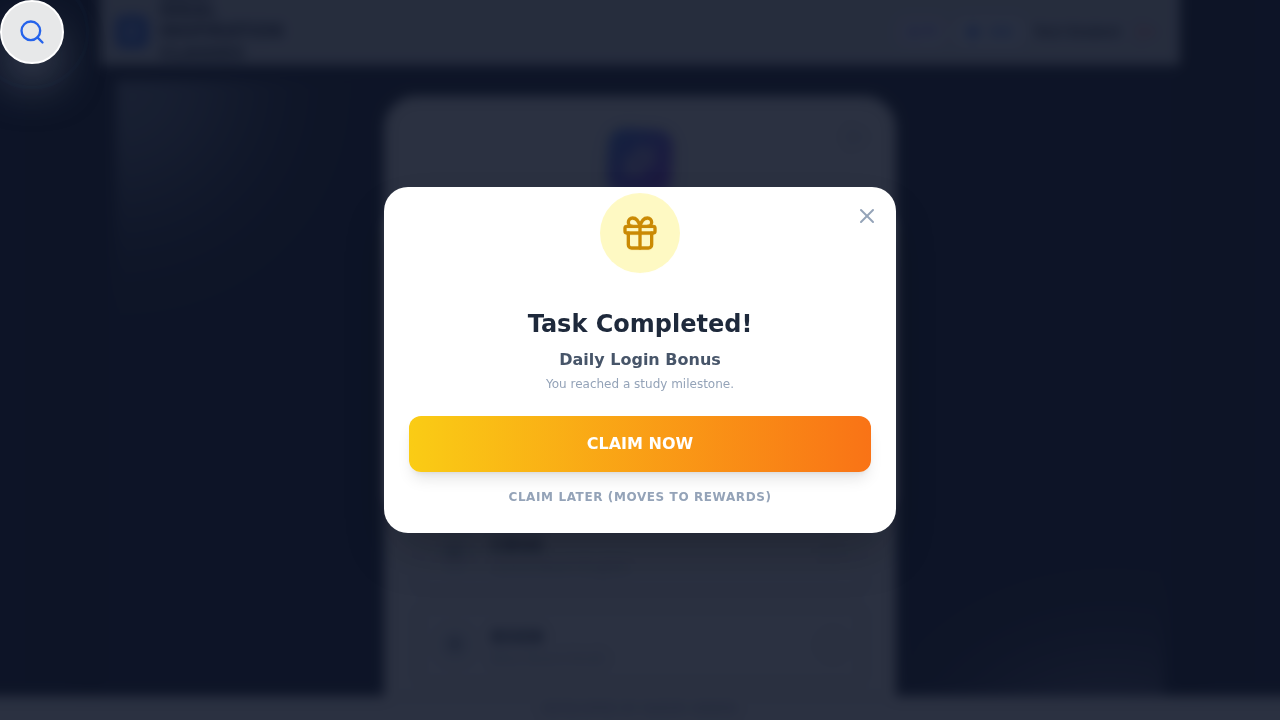
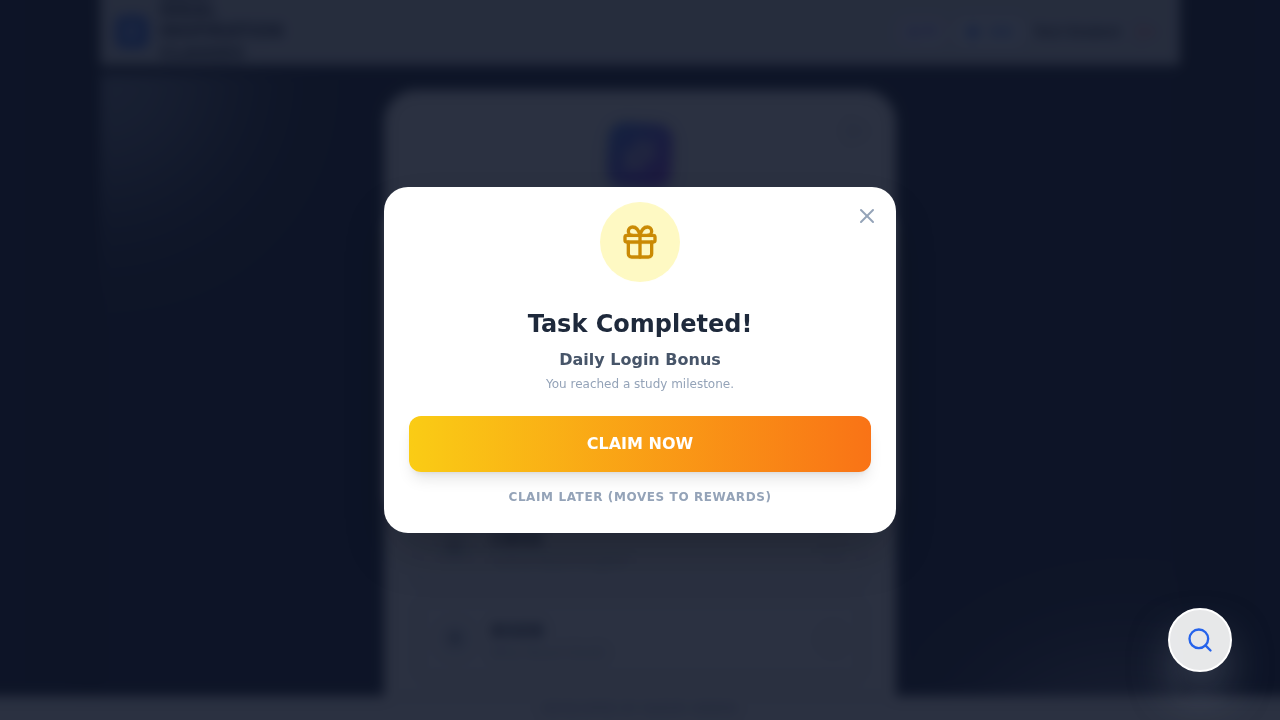
fix: remove watermark, fix undefined performanceTag replace in history, safeguard RevisionHub

Changed region(s): [[0.9062, 0.825, 0.9688, 0.9472], [0.4688, 0.275, 0.5312, 0.3972], [0.0, 0.0, 0.0625, 0.0917]]

diff --git a/App.tsx b/App.tsx
@@ -2218,38 +2218,6 @@ const App: React.FC = () => {
       {/* BOTTOM SAFE AREA BACKGROUND */}
       <div className="fixed bottom-0 left-0 right-0 h-[env(safe-area-inset-bottom,32px)] bg-slate-900 z-[100]"></div>
 
-      {/* WATERMARK LAYER */}
-      {state.settings.isWatermarkEnabled !== false && (
-      <div className="fixed inset-0 z-[-1] pointer-events-none overflow-hidden select-none">
-          {state.settings.appLogo && (
-              <img
-                  src={state.settings.appLogo}
-                  alt=""
-                  style={{
-                      width: `${state.settings.watermarkSize || 150}px`,
-                      height: 'auto',
-                      opacity: state.settings.watermarkOpacity || 0.05,
-                      position: 'absolute',
-                      top: state.settings.watermarkPosition?.top || '50%',
-                      left: state.settings.watermarkPosition?.left || '50%',
-                      transform: `translate(-50%, -50%) rotate(${state.settings.watermarkAngle || -10}deg)`,
-                      filter: 'grayscale(100%)'
-                  }}
-              />
-          )}
-
-          {(state.user && state.settings.showUserWatermark !== false) && (
-              <div className="absolute inset-0 flex items-center justify-center pointer-events-none">
-                  <div
-                    className="text-4xl font-black -rotate-45 whitespace-nowrap pointer-events-none"
-                    style={{ color: state.settings.footerColor ? `${state.settings.footerColor}10` : 'rgba(15, 23, 42, 0.05)' }}
-                  >
-                      {state.user.name} • {state.user.displayId || state.user.id}
-                  </div>
-              </div>
-          )}
-      </div>
-      )}
       
       {/* GLOBAL LIVE DASHBOARD 1 (TOP) */}
         {state.settings.bannerConfig?.top?.enabled && showTopBanner && state.view === 'ADMIN_DASHBOARD' && (

diff --git a/components/AnalyticsPage.tsx b/components/AnalyticsPage.tsx
@@ -216,7 +216,7 @@ export const AnalyticsPage: React.FC<Props> = ({ user, onBack, settings, onNavig
                                     <p className="text-xs text-slate-500">{item.subjectName} • {new Date(item.date).toLocaleDateString()}</p>
                                 </div>
                                 <div className={`px-2 py-1 rounded text-[10px] font-black border ${getTagColor(item.performanceTag)}`}>
-                                    {item.performanceTag.replace('_', ' ')}
+                                    {(item.performanceTag || '').replace('_', ' ')}
                                 </div>
                             </div>
                             

diff --git a/components/MarksheetCard.tsx b/components/MarksheetCard.tsx
@@ -905,7 +905,7 @@ export const MarksheetCard: React.FC<Props> = ({ result, user, settings, onClose
               <div className="bg-white border border-slate-200 rounded-2xl p-4 text-center shadow-sm flex flex-col items-center justify-center">
                   <p className="text-[10px] font-bold text-slate-400 uppercase tracking-widest mb-1">Grade</p>
                   <span className={`px-3 py-1 rounded-full text-xs font-black ${tagColor}`}>
-                      {result.performanceTag.replace('_', ' ')}
+                      {(result.performanceTag || '').replace('_', ' ')}
                   </span>
               </div>
           </div>

diff --git a/playwright-verify2.js b/playwright-verify2.js
@@ -26,7 +26,7 @@ import { chromium } from 'playwright';
   });
 
   try {
-    await page.goto('http://localhost:5004');
+    await page.goto('http://localhost:5000');
     await page.waitForTimeout(3000);
 
     // Click on Revision tab
@@ -40,7 +40,7 @@ import { chromium } from 'playwright';
 
     await page.screenshot({ path: 'revision_hub_test.png' });
   } catch (e) {
-    console.log("Could not load localhost:5004", e);
+    console.log("Could not load localhost:5000", e);
   }
 
   await browser.close();

diff --git a/components/RevisionHub.tsx b/components/RevisionHub.tsx
@@ -439,6 +439,7 @@ const RevisionHubComponent: React.FC<Props> = ({ user, onTabChange, settings, on
 
         // Helper to strip prefix case-insensitively
         const stripPrefix = (str: string, prefix: string) => {
+            if (!str || !prefix) return str || "";
             if (str.toLowerCase().startsWith(prefix.toLowerCase())) {
                 let rest = str.substring(prefix.length);
                 // Remove common separators
